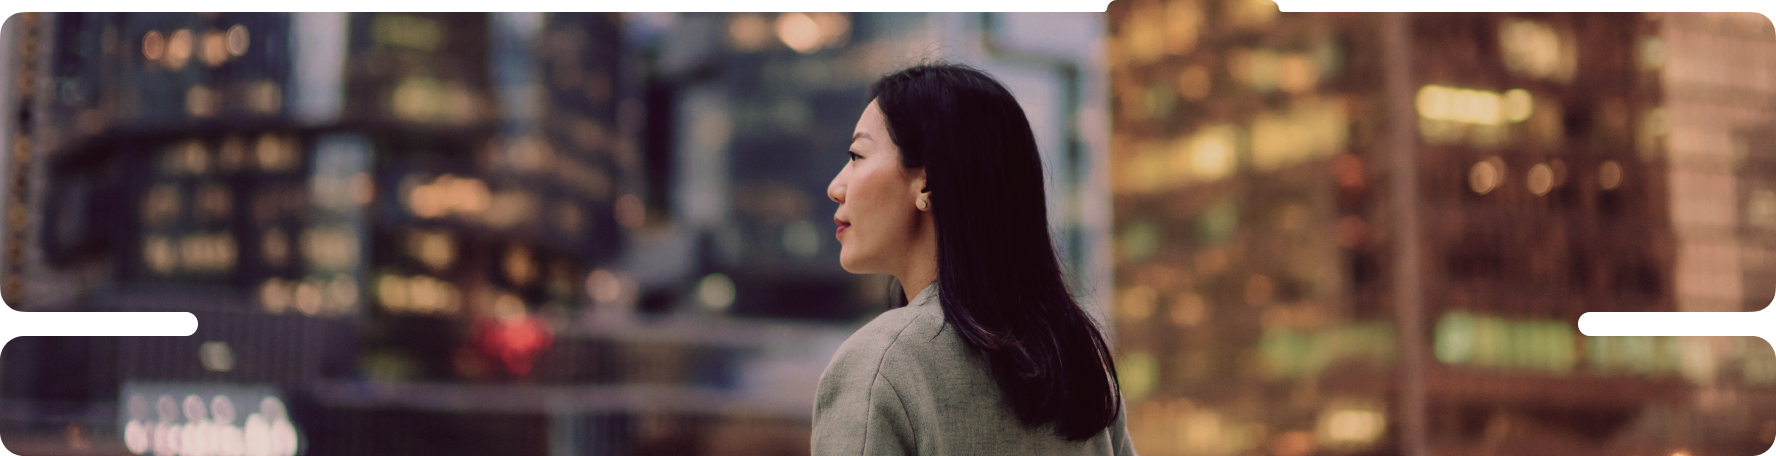
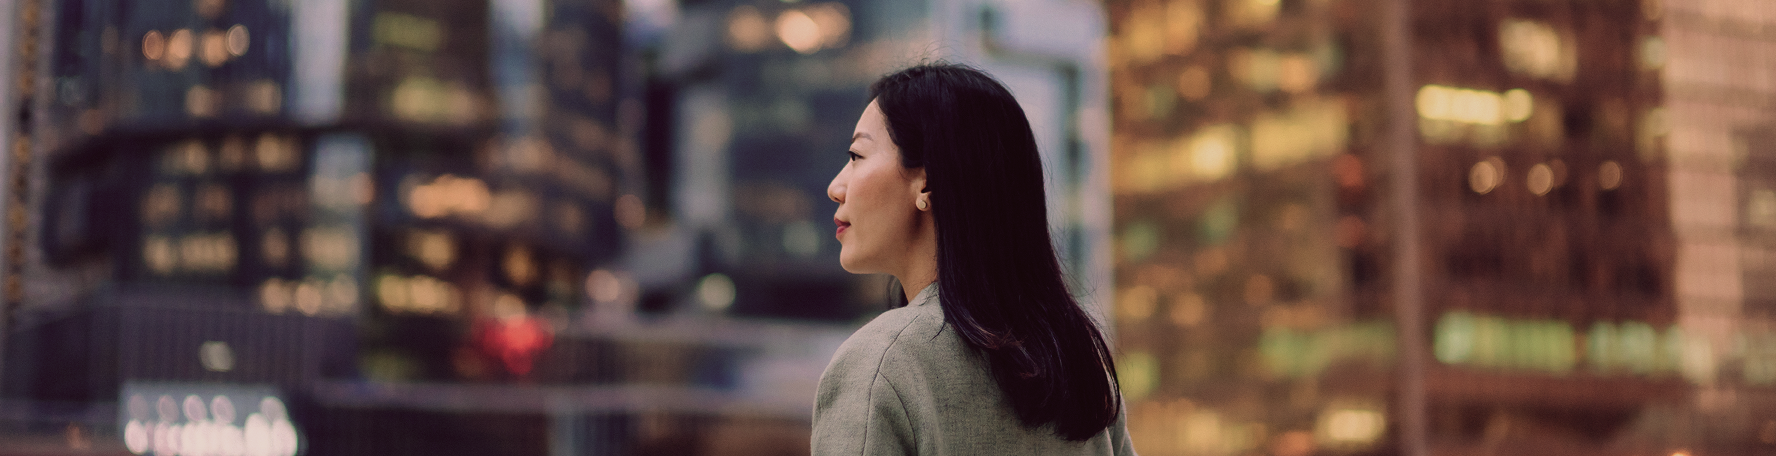
피씨 상단 이미지 영역 반응형으로 수정

diff --git a/resources/frontAssets/pc/css/main.scss b/resources/frontAssets/pc/css/main.scss
@@ -109,7 +109,8 @@ body {
   &__container {
     display: flex;
     align-items: center;
-    width: 1776px;
+    max-width: 1776px;
+    min-width: 1200px;
     height: 72px;
     margin: 0 auto;
   }
@@ -157,30 +158,97 @@ body {
 
 .page {
   &-header {
+    position: relative;
     display: flex;
     align-items: flex-end;
-    width: 1776px;
+    max-width: 1776px;
+    min-width: 1200px;
     height: 456px;
     margin: 0 auto;
-    background: url('../../../frontAssets/pc/image/bg_top_management.png') no-repeat 0% 0%;
+    background: url('../../../frontAssets/pc/image/main_visual_management.png') no-repeat 50% 50%;
     border-radius: 24px;
 
+    &::before {
+      content: '';
+      position: absolute;
+      top: 0;
+      left: 0;
+      width: 100%;
+      height: 40px;
+      background: url('../../../frontAssets/pc/image/main_mask_management.png') no-repeat 100% 50%;
+    }
+
+    &::after {
+      content: '';
+      position: absolute;
+      top: 0;
+      left: 0;
+      width: 100px;
+      height: 40px;
+      background: url('../../../frontAssets/pc/image/main_mask_management.png') no-repeat 0 50%;
+    }
+
     &.about {
-      background-image: url('../../../frontAssets/pc/image/bg_top_about.png');
+      background-image: url('../../../frontAssets/pc/image/main_visual_about.png');
+      &::before {
+        background: url('../../../frontAssets/pc/image/main_mask_about.png') no-repeat 100% 50%;
+      }
+    }
+
+    &.assets {
+      background-image: url('../../../frontAssets/pc/image/main_visual_assets.png');
+      &::before {
+        background: url('../../../frontAssets/pc/image/main_mask_portfolio.png') no-repeat 100% 50%;
+      }
+    }
+
+    &.business {
+      background-image: url('../../../frontAssets/pc/image/main_visual_business.png');
+      &::before {
+        background: url('../../../frontAssets/pc/image/main_mask_portfolio.png') no-repeat 100% 50%;
+      }
     }
 
     &.esg {
-      background-image: url('../../../frontAssets/pc/image/bg_top_esg.png');
+      background-image: url('../../../frontAssets/pc/image/main_visual_esg.png');
+
+      &::before {
+        background: url('../../../frontAssets/pc/image/main_mask_esg.png') no-repeat 100% 50%;
+      }
     }
 
     &.esg-2 {
-      background-image: url('../../../frontAssets/pc/image/main_visual_esg_2.png');
+      background-image: url('../../../frontAssets/pc/image/main_visual_esg2.png');
+
+      &::before {
+        background: url('../../../frontAssets/pc/image/main_mask_esg.png') no-repeat 100% 50%;
+      }
     }
   }
 
   &-header__content {
     width: 1200px;
     margin: 0 auto;
+
+    &::before {
+      content: '';
+      position: absolute;
+      top: 284px;
+      left: 0;
+      width: 100%;
+      height: 74px;
+      background: url('../../../frontAssets/pc/image/main_shape_left.png') no-repeat;
+    }
+
+    &::after {
+      content: '';
+      position: absolute;
+      top: 284px;
+      right: 0;
+      width: 198px;
+      height: 74px;
+      background: url('../../../frontAssets/pc/image/main_shape_right.png') no-repeat;
+    }
   }
 
   &-title {
@@ -1467,9 +1535,6 @@ body {
 /* ==========================================================================
    Portfolio - Business Section Styles
    ========================================================================== */
-.page-header.business {
-  background-image: url('../../../frontAssets/pc/image/main_visual_business.png');
-}
 
 .business-section {
   padding-top: 16px;

diff --git a/resources/frontAssets/pc/css/main.css b/resources/frontAssets/pc/css/main.css
@@ -98,7 +98,8 @@ body {
 .header__container {
   display: flex;
   align-items: center;
-  width: 1776px;
+  max-width: 1776px;
+  min-width: 1200px;
   height: 72px;
   margin: 0 auto;
 }
@@ -136,26 +137,85 @@ body {
 }
 
 .page-header {
+  position: relative;
   display: flex;
   align-items: flex-end;
-  width: 1776px;
+  max-width: 1776px;
+  min-width: 1200px;
   height: 456px;
   margin: 0 auto;
-  background: url("../../../frontAssets/pc/image/bg_top_management.png") no-repeat 0% 0%;
+  background: url("../../../frontAssets/pc/image/main_visual_management.png") no-repeat 50% 50%;
   border-radius: 24px;
 }
+.page-header::before {
+  content: "";
+  position: absolute;
+  top: 0;
+  left: 0;
+  width: 100%;
+  height: 40px;
+  background: url("../../../frontAssets/pc/image/main_mask_management.png") no-repeat 100% 50%;
+}
+.page-header::after {
+  content: "";
+  position: absolute;
+  top: 0;
+  left: 0;
+  width: 100px;
+  height: 40px;
+  background: url("../../../frontAssets/pc/image/main_mask_management.png") no-repeat 0 50%;
+}
 .page-header.about {
-  background-image: url("../../../frontAssets/pc/image/bg_top_about.png");
+  background-image: url("../../../frontAssets/pc/image/main_visual_about.png");
+}
+.page-header.about::before {
+  background: url("../../../frontAssets/pc/image/main_mask_about.png") no-repeat 100% 50%;
+}
+.page-header.assets {
+  background-image: url("../../../frontAssets/pc/image/main_visual_assets.png");
+}
+.page-header.assets::before {
+  background: url("../../../frontAssets/pc/image/main_mask_portfolio.png") no-repeat 100% 50%;
+}
+.page-header.business {
+  background-image: url("../../../frontAssets/pc/image/main_visual_business.png");
+}
+.page-header.business::before {
+  background: url("../../../frontAssets/pc/image/main_mask_portfolio.png") no-repeat 100% 50%;
 }
 .page-header.esg {
-  background-image: url("../../../frontAssets/pc/image/bg_top_esg.png");
+  background-image: url("../../../frontAssets/pc/image/main_visual_esg.png");
+}
+.page-header.esg::before {
+  background: url("../../../frontAssets/pc/image/main_mask_esg.png") no-repeat 100% 50%;
 }
 .page-header.esg-2 {
-  background-image: url("../../../frontAssets/pc/image/main_visual_esg_2.png");
+  background-image: url("../../../frontAssets/pc/image/main_visual_esg2.png");
+}
+.page-header.esg-2::before {
+  background: url("../../../frontAssets/pc/image/main_mask_esg.png") no-repeat 100% 50%;
 }
 .page-header__content {
   width: 1200px;
   margin: 0 auto;
+}
+.page-header__content::before {
+  content: "";
+  position: absolute;
+  top: 284px;
+  left: 0;
+  width: 100%;
+  height: 74px;
+  background: url("../../../frontAssets/pc/image/main_shape_left.png") no-repeat;
+}
+.page-header__content::after {
+  content: "";
+  position: absolute;
+  top: 284px;
+  right: 0;
+  width: 198px;
+  height: 74px;
+  background: url("../../../frontAssets/pc/image/main_shape_right.png") no-repeat;
 }
 .page-title {
   font-size: 56px;
@@ -1265,10 +1325,6 @@ body {
 /* ==========================================================================
    Portfolio - Business Section Styles
    ========================================================================== */
-.page-header.business {
-  background-image: url("../../../frontAssets/pc/image/main_visual_business.png");
-}
-
 .business-section {
   padding-top: 16px;
 }

diff --git a/pc/portfolio/assets/FP0005.html b/pc/portfolio/assets/FP0005.html
@@ -44,7 +44,7 @@
     </header>
 
     <main class="sub-page">
-      <div class="page-header business">
+      <div class="page-header assets">
         <div class="page-header__content">
           <h2 class="page-title">운용자산현황</h2>
         </div>

diff --git a/pc/portfolio/assets/FP0006.html b/pc/portfolio/assets/FP0006.html
@@ -44,7 +44,7 @@
     </header>
 
     <main class="sub-page">
-      <div class="page-header business">
+      <div class="page-header assets">
         <div class="page-header__content">
           <h2 class="page-title">운용자산현황</h2>
         </div>
